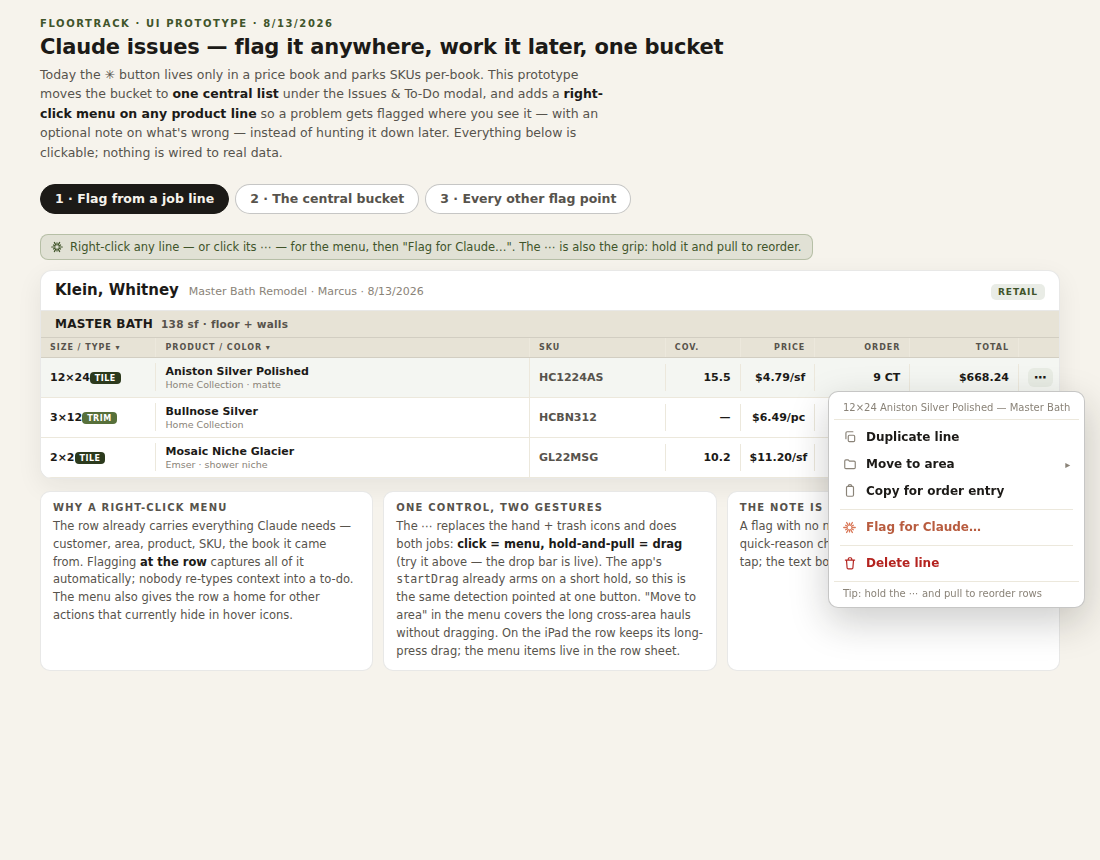
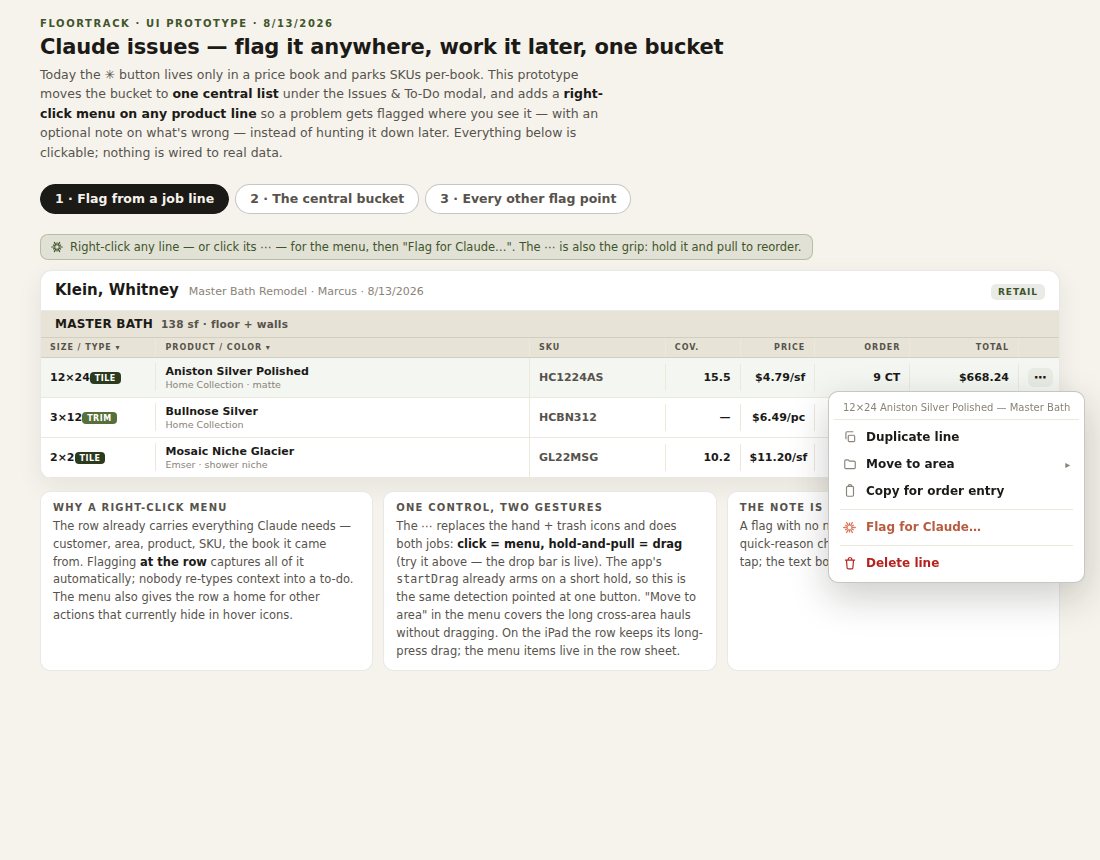
Prototype 087: drop the menu's reorder tip line (owner: clutter)
The dots' grab cursor is the drag affordance; the menu ends at Delete.

Claude-Session: https://claude.ai/code/session_019o2yD2XcdXQrLiHPaqstVy

Changed region(s): [[0.7418, 0.6651, 0.9891, 0.7256]]

diff --git a/.scratch/087_claude-issues-central/prototype.html b/.scratch/087_claude-issues-central/prototype.html
@@ -81,7 +81,6 @@
   .mi.danger .ic{color:var(--red)}
   .mi.danger:hover{background:#FEF2F2}
   .msep{height:1px;background:var(--row-line);margin:4px 6px}
-  .mtip{font-size:10px;color:var(--faint);padding:6px 9px 3px;border-top:1px solid var(--row-line);margin-top:4px}
 
   /* ---- flag dialog ---- */
   .overlay{position:fixed;inset:0;z-index:300;background:rgba(28,26,23,.35);display:none;align-items:center;justify-content:center;padding:16px}
@@ -296,7 +295,6 @@
   <button class="mi claude" id="miFlag"><span class="ic" data-mark="13"></span> Flag for Claude…</button>
   <div class="msep"></div>
   <button class="mi danger"><span class="ic" data-ic="trash"></span> Delete line</button>
-  <div class="mtip">Tip: hold the ⋯ and pull to reorder rows</div>
 </div>
 
 <!-- ---- shared: flag dialog ---- -->

diff --git a/.scratch/087_claude-issues-central/README.md b/.scratch/087_claude-issues-central/README.md
@@ -36,9 +36,10 @@ popover, bucket and toast are all clickable):
    **Owner decision 2026-08-13 ("option A"):** the ⋯ replaces BOTH row-end
    hover icons (the hand drag-handle and the trash). It is the row's one grip —
    a plain click opens the menu, a press-hold-and-pull drags the row (the same
-   hold-to-arm detection `startDrag` already does, pointed at one button; the
-   menu carries a "hold ⋯ and pull to reorder" tip line, and "Move to area"
-   covers long cross-area hauls without dragging). Delete moves into the menu.
+   hold-to-arm detection `startDrag` already does, pointed at one button —
+   no tip line in the menu, owner 2026-08-13: it clutters; the grab cursor on
+   hover is the affordance, and "Move to area" covers long cross-area hauls
+   without dragging). Delete moves into the menu.
    Mobile is unchanged: long-press-the-row still drags, the menu items live in
    the row sheet. The prototype's drag is live — hold the dots and pull.
 
